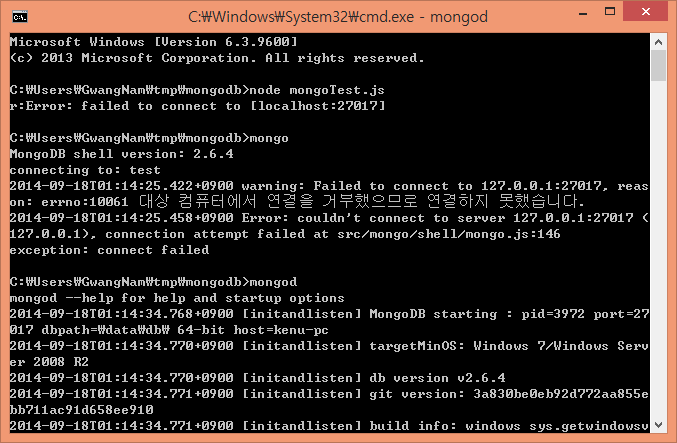
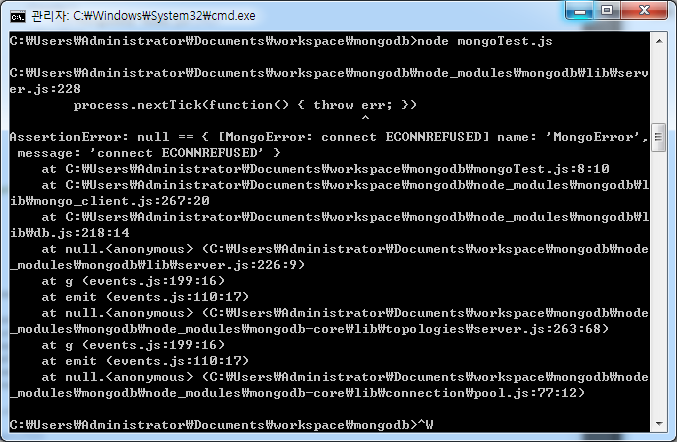
mongodb-node.js update

Changed region(s): [[0.0, 0.0, 1.0, 1.0], [0.8065, 0.2941, 0.9306, 0.3235]]

diff --git a/www/mongodb_nodejs.html b/www/mongodb_nodejs.html
@@ -71,152 +71,187 @@
         </ul>
         <h2>필요 조건</h2>
         <ul>
-            <li><a href="/nodejs.html">node.js</a></li>
             <li><a href="/mongodb.html">mongodb</a></li>
-            <li>두 가지가 설치되었고, 환경변수 Path에 잡힌 상황</li>
+            <li><a href="/nodejs.html">node.js</a></li>
+            <li><a href="https://github.com/mongodb/node-mongodb-native" target="_blank">mongodb package</a><br> <code>npm install mongodb</code></li>
+            <li>세 가지가 설치되었고, 환경변수 Path에 잡힌 상황</li>
         </ul>
 
         <h2>MongoDB 접속 코드</h2>
         <ul>
             <li>mongoTest.js</li>
-            <li><pre class="brush: js">var MongoClient = require('mongodb').MongoClient;
+            <li><pre class="brush: js">var MongoClient = require('mongodb').MongoClient
+  , assert = require('assert');
 
-var url = "mongodb://localhost/test";
+// Connection URL
+var url = 'mongodb://localhost:27017/myproject';
+// Use connect method to connect to the Server
+MongoClient.connect(url, function(err, db) {
+  assert.equal(null, err);
+  console.log("Connected correctly to server");
 
-function callback(r) {
-    console.log("r:" + r);
-}
-
-MongoClient.connect(url, callback);
+  db.close();
+});
 </pre></li>
 
             <li><code>node mongoTest.js</code></li>
             <li>error 발생하는 경우</li>
-            <li><pre class="brush: js">r:Error: failed to connect to [localhost:27017]
-</pre></li>
-            <li><img src="/images/mongodb/nodejs/mongo-node-01.png"></li>
-            <li>cmd 창에서 <code>mongod</code> 명령 실행</li>
+            <li><pre class="brush: js">AssertionError: null == { [MongoError: connect ECONNREFUSED] name: 'MongoError',
+ message: 'connect ECONNREFUSED' }</pre></li>
             <li><img src="/images/mongodb/nodejs/mongo-node-02-err.png"></li>
-            <li><code>node mongoTest.js</code></li>
-            <li><code>npm install mongodb;</code></li>
-            <li>Q: 프로그램이 종료되지 않는 이유는?</li>
-            <li><code>db.close();</code></li>
-<li><pre class="brush: js">var MongoClient = require('mongodb').MongoClient;
-
-MongoClient.connect("mongodb://localhost/test",
-    function (err, db) {
-        console.log('err:' + err + '\ndb:' + db);
-        db.close();
-    });
-</pre></li>
+            <li>정상 실행</li>
+           <li><img src="/images/mongodb/nodejs/mongo-node-01.png"></li>
         </ul>
         
         <h3>MongoDB 데이터 입력</h3>
         <ul>
-            <li><code>db.collection("test").insert({a: 1}, function(err, result) {});</code></li>
-<li><pre class="brush: js">var MongoClient = require('mongodb').MongoClient;
+            <li><code>collection.insert({a: 1}, function(err, result) {});</code></li>
+<li><pre class="brush: js">var insertDocuments = function(db, callback) {
+  // Get the documents collection
+  var collection = db.collection('documents');
+  // Insert some documents
+  collection.insert([
+    {a : 1}, {a : 2}, {a : 3}
+  ], function(err, result) {
+    assert.equal(err, null);
+    assert.equal(3, result.result.n);
+    assert.equal(3, result.ops.length);
+    console.log("Inserted 3 documents into the document collection");
+    callback(result);
+  });
+}
 
-MongoClient.connect("mongodb://localhost/test",
-    function (err, db) {
-        console.log('err:' + err + '\ndb:' + db.collection("test"));
-        db.collection("test").insert({
-            "oka": 1
-        }, function (e) {
-            console.log(e);
-            db.close();
-        });
-        //  db.close();
-    });
+var MongoClient = require('mongodb').MongoClient
+  , assert = require('assert');
+
+// Connection URL
+var url = 'mongodb://localhost:27017/myproject';
+// Use connect method to connect to the Server
+MongoClient.connect(url, function(err, db) {
+  assert.equal(null, err);
+  console.log("Connected correctly to server");
+
+  insertDocuments(db, function() {
+    db.close();
+  });
+});
 </pre></li>
-        </ul>
-        
-        <h3>MongoDB 데이터 조회</h3>
-        <ul>
-            <li><code>db.collection("test").find().toArray(function(err, items){});</code></li>
-<li><pre class="brush: js">
-var MongoClient = require('mongodb').MongoClient;
-
-MongoClient.connect("mongodb://localhost/test",
-    function (err, db) {
-        console.log('err:' + err + '\ndb:' + db.collection("test"));
-        db.collection("test").find().toArray(function (err, items) {
-            console.log(items.length);
-            for (var i in items) {
-                console.log(i + ":" + JSON.stringify(items[i]));
-            }
-            db.close();
-        });
-    });
-</pre></li>
-            <li><code>db.collection("test").findOne({a: 1}, function(err, item){});</code></li>
-            <li><pre class="brush: js">
-var MongoClient = require('mongodb').MongoClient;
-
-MongoClient.connect("mongodb://localhost/test",
-    function (err, db) {
-        // Find the saved document
-        db.collection("test").findOne({
-            "c": 1
-        }, function (err, item) {
-            console.log('world', item);
-            db.close();
-        });
-    });</pre></li>
         </ul>
         <h3>MongoDB 데이터 수정</h3>
         <ul>
-            <li><code>db.collection("test").update({a: 1}, {b: 2}, function(err, result) {});</code></li>
-            <li><pre class="brush: js">
-var MongoClient = require('mongodb').MongoClient;
-
-MongoClient.connect("mongodb://localhost/test",
-    function (err, db) {
-        console.log('err:' + err + '\ndb:' + db.collection("test"));
-        db.collection("test").update({
-            "oka": 1
-        }, {
-            "okb": 60
-        }, function (e, num) {
-            console.log(num);
-            db.close();
-        });
-    });
+            <li><code>collection.update({a: 2}, { $set: {b: 1}}, function(err, result) {});</code></li>
+            <li><pre class="brush: js">var updateDocument = function(db, callback) {
+  // Get the documents collection
+  var collection = db.collection('documents');
+  // Update document where a is 2, set b equal to 1
+  collection.update({ a : 2 }
+    , { $set: { b : 1 } }, function(err, result) {
+    assert.equal(err, null);
+    assert.equal(1, result.result.n);
+    console.log("Updated the document with the field a equal to 2");
+    callback(result);
+  });
+}
 </pre></li>
+       <li><pre class="brush: js">var MongoClient = require('mongodb').MongoClient
+  , assert = require('assert');
+
+// Connection URL
+var url = 'mongodb://localhost:27017/myproject';
+// Use connect method to connect to the Server
+MongoClient.connect(url, function(err, db) {
+  assert.equal(null, err);
+  console.log("Connected correctly to server");
+
+  insertDocuments(db, function() {
+    updateDocument(db, function() {
+      db.close();
+    });
+  });
+});</pre></li>
         
         </ul>
         <h3>MongoDB 데이터 삭제</h3>
         <ul>
-            <li><code>db.collection("test").remove({a: 1}, function(err, result) {});</code></li>
-<li><pre class="brush: js">
-var Db = require('mongodb').Db,
-    MongoClient = require('mongodb').MongoClient,
-    Server = require('mongodb').Server,
-    assert = require('assert');
+            <li><code>collection.remove({a: 1}, function(err, result) {});</code></li>
+<li><pre class="brush: js">var removeDocument = function(db, callback) {
+  // Get the documents collection
+  var collection = db.collection('documents');
+  // Insert some documents
+  collection.remove({ a : 3 }, function(err, result) {
+    assert.equal(err, null);
+    assert.equal(1, result.result.n);
+    console.log("Removed the document with the field a equal to 3");
+    callback(result);
+  });
+}
+</pre></li>
+<li><pre class="brush: js">var MongoClient = require('mongodb').MongoClient
+  , assert = require('assert');
 
-var db = new Db('test', new Server('localhost', 27017), {safe:true});
-// Establish connection to db
-db.open(function(err, db) {
+// Connection URL
+var url = 'mongodb://localhost:27017/myproject';
+// Use connect method to connect to the Server
+MongoClient.connect(url, function(err, db) {
+  assert.equal(null, err);
+  console.log("Connected correctly to server");
 
-  // Fetch a collection to insert document into
-  db.collection("test", function(err, collection) {
-
-    // Insert a bunch of documents
-    collection.insert([{a:1}, {b:2}], {w:1}, function(err, result) {
-      assert.equal(null, err);
-
-      // Remove all the document
-      collection.remove({a:1}, {w:1}, function(err, numberOfRemovedDocs) {
-        assert.equal(null, err);
-        assert.equal(1, numberOfRemovedDocs);
+  insertDocuments(db, function() {
+    updateDocument(db, function() {
+      removeDocument(db, function() {
         db.close();
       });
     });
-  })
+  });
+});
+</pre></li>
+        </ul>
+
+        <h3>MongoDB 데이터 조회</h3>
+        <ul>
+            <li><code>collection.findOne({a: 1}, function(err, item){});</code></li>
+            <li><code>collection.find().toArray(function(err, docs){});</code></li>
+<li><pre class="brush: js">var findDocuments = function(db, callback) {
+  // Get the documents collection
+  var collection = db.collection('documents');
+  // Find some documents
+  collection.find({}).toArray(function(err, docs) {
+    assert.equal(err, null);
+    assert.equal(2, docs.length);
+    console.log("Found the following records");
+    console.dir(docs);
+    callback(docs);
+  });
+}
+</pre></li>
+<li><pre class="brush: js">var MongoClient = require('mongodb').MongoClient
+  , assert = require('assert');
+
+// Connection URL
+var url = 'mongodb://localhost:27017/myproject';
+// Use connect method to connect to the Server
+MongoClient.connect(url, function(err, db) {
+  assert.equal(null, err);
+  console.log("Connected correctly to server");
+
+  insertDocuments(db, function() {
+    updateDocument(db, function() {
+      removeDocument(db, function() {
+        findDocuments(db, function() {
+          db.close();
+        });
+      });
+    });
+  });
 });
 </pre></li>
         </ul>
         
         <h2>참고</h2>
+        <dl>
+            <dt>Node.JS MongoDB Driver</dt>
+            <dd><a href="https://github.com/mongodb/node-mongodb-native" target="_blank">https://github.com/mongodb/node-mongodb-native</a></dd>
+        </dl>
         <dl>
             <dt>Node.JS MongoDB Driver Manual</dt>
             <dd><a href="http://mongodb.github.io/node-mongodb-native/contents.html" target="_blank">http://mongodb.github.io/node-mongodb-native/contents.html</a></dd>
